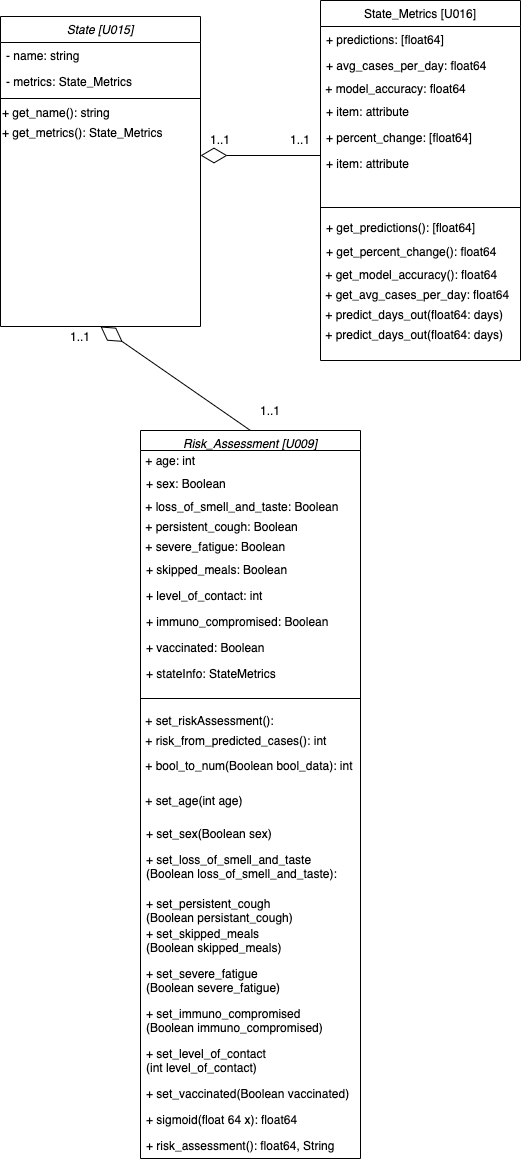
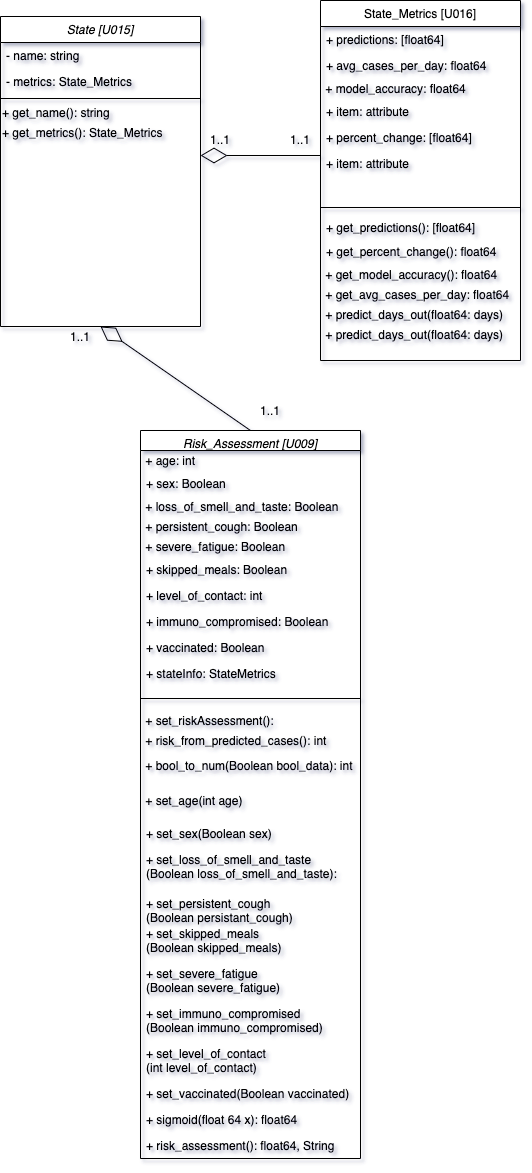
Updating class diagram to better format

diff --git a/backend/RiskAssessment.py b/backend/RiskAssessment.py
@@ -22,7 +22,7 @@ class RiskAssessment:
         self.loss_of_smell_and_taste = loss_of_smell_and_taste
         self.persistent_cough = persistent_cough
         self.severe_fatigue = severe_fatigue
-        self.skipped_meals = skipped_meals
+        self.ss = skipped_meals
         self.level_of_contact = level_of_contact
         self.immuno_compromised = immuno_compromised
         self.vaccinated = vaccinated
